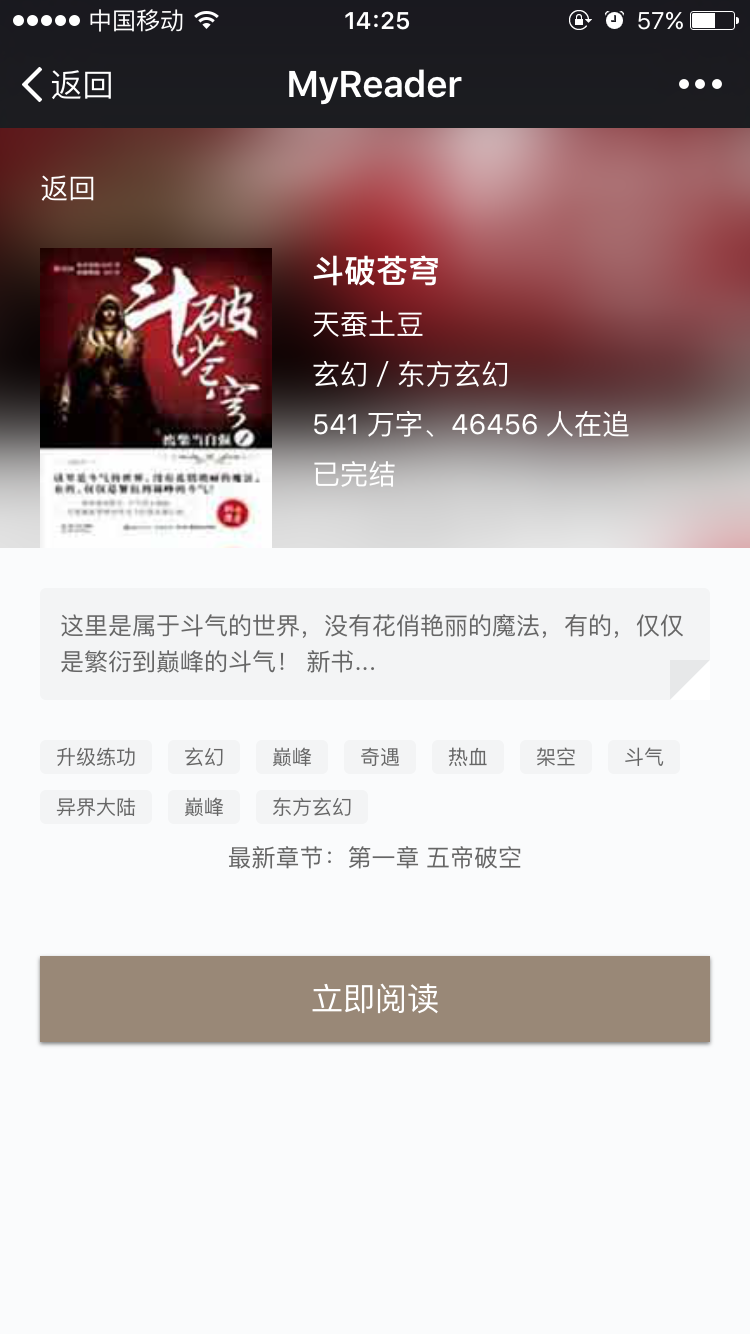
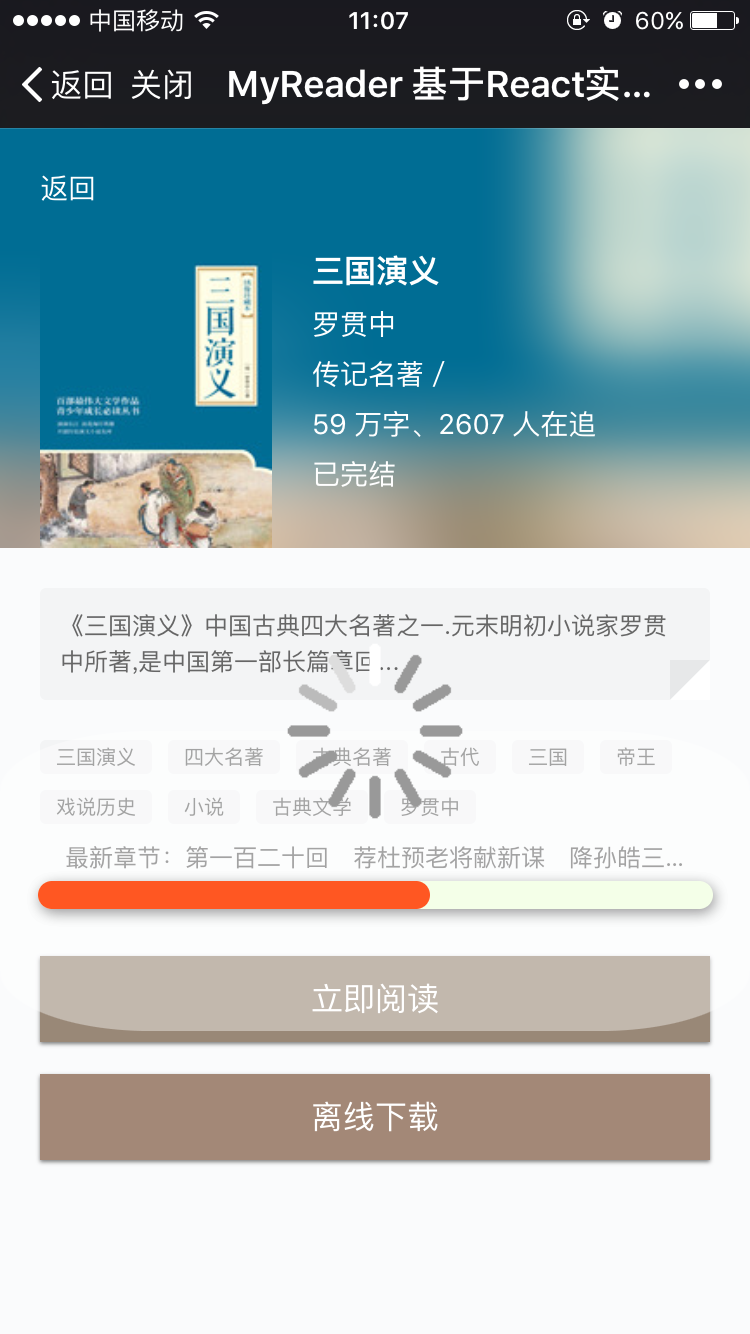
第二版，新增离线下载功能，修复已知bug

diff --git a/README.md b/README.md
@@ -7,6 +7,31 @@
 github：[myreader](https://github.com/liufulin90/myreader)
 
 -------
+## 目录索引
+> store的设计与实现
+- [阅读器](#阅读器)
+- [书架](#书架)
+> effects 的逻辑处理
+- [获取书源](#获取书源)
+- [章节列表 & 章节内容](#章节列表&章节内容)
+- [换源实现](#换源实现)
+- [切换章节](#切换章节)
+- [离线下载](#离线下载)
+- [本地存储 redux-persist](#本地存储redux-persist)
+> UI部分
+- [首页](#首页)
+- [阅读器](#阅读器)
+- [换肤](#换肤)
+- [删除实现](#删除实现)
+> 优化
+- [移动端优化](#移动端优化)
+- [CSS](#CSS)
+- [fetch-polyfill](#fetch-polyfill)
+- [fastclick](#fastclick)
+- [体积减小](#体积减小)
+> 最后
+- [后记](#后记)
+- [线上环境](#线上环境)
 
 ### 开始
 
@@ -21,7 +46,7 @@ github：[myreader](https://github.com/liufulin90/myreader)
 reader代表阅读器和当前书籍，这里我们跳过优质书源，原因大家都懂。
 ╮(￣▽￣)╭
 
-**阅读器**
+#### 阅读器
 
 - src/store/reducer/reader.js
 ```javascript
@@ -54,7 +79,7 @@ function reader(state = initState, action) {
 export default reader;
 ```
 
-**书架**
+#### 书架
 
 因为我们并不是要做只能阅读一本书的鸡肋，我们要的是能在多本书籍之间快速切换，不但能够保存阅读进度（当前书源和当前章节），并且可以在缓存中读取数据，过滤掉那些不必要的服务器请求。
 
@@ -109,7 +134,7 @@ export default store;
 
 需要注意的一点是，项目本质上是web应用，用户可能从url进入任意页面，所以要做好异常情况的处理，例如没有书籍详情等。
 
-**获取书源**
+#### 获取书源
 
 - src/store/effects/reader.js
 ```javascript
@@ -155,7 +180,8 @@ function* getSource({ query }) {
 }
 ```
 
-**章节列表 & 章节内容**
+#### 章节列表 & 章节内容
+
 获取章节列表和章节内容比较简单，只需稍稍做些异常情况的处理即可。
 
 - src/store/effects/reader.js
@@ -216,7 +242,7 @@ function* getChapter() {
 }
 ```
 
-**换源实现**
+#### 换源实现
 
 同是核心功能，这个必须有。换源其实非常简单，做一个智（sha）能（gua）换源吧（根据书源获取`具体章节`，如果获取不到就拿下一个书源再获取`其具体章节`，直到获取到正确的为止）。
 
@@ -249,7 +275,7 @@ function* getNextSource() {
 
 ![retry](https://raw.githubusercontent.com/liufulin90/myreader/master/screenshots/retry.jpg)
 
-**切换章节**
+#### 切换章节
 
 非常简单，稍微做下异常处理就好。
 
@@ -274,7 +300,7 @@ function* goToChapter({ payload }) {
   }
 }
 ```
-### 离线下载
+#### 离线下载
 
 考虑到节约流量问题，获取一个可用的书源后对每个章节去下载相应的章节内容，然后存储在本地(chaptersContent)。
 - src/store/effects/reader.js
@@ -366,7 +392,8 @@ function* downGetSource({ query }) {
 }
 ```
 
-### 本地存储 redux-persist
+#### 本地存储 redux-persist
+
 这里咱们使用了 `redux-persist` 来做本地存储，非常方便，redux先关数据自动存储和获取
 - src/store/effects/reader.js
 ```javascript
@@ -391,11 +418,11 @@ export default [
 ```
 以上基本上已经完整实现了阅读器的核心部分，至于搜索和详情页，限于篇幅不再赘述。
 
-### ui部分
+### UI部分
 
 本想使用material-ui，但它实在是太重了，而我希望这个项目是轻量且高效的，最后还是决定自行设计ui。
 
-**首页**
+#### 首页
 
 首页比较纠结，曾经放了很多自以为炫酷的高斯模糊和动画，但过多的效果会降低体验，最终还是选择了走了简洁的路子。
 
@@ -423,7 +450,7 @@ function mapStateToProps(state) {
 }
 ```
 
-**阅读器**
+#### 阅读器
 
 ![reader_all](https://raw.githubusercontent.com/liufulin90/myreader/master/screenshots/reader_all.png)
 
@@ -468,7 +495,7 @@ this.skip = () => {
  }
 ```
 
-**换肤**
+#### 换肤
 
 说起来很好实现，无非是先预设一套主题参数，需要哪个点那个。
 
@@ -543,7 +570,7 @@ this.setFontSize = (num) => {
 };
 ```
 
-**删除实现**
+#### 删除实现
 
 为了不再增加新的ui，决定使用长按删除。但是这个列表不仅需要支持长按和短按，还需要支持滚动，我又不想使用`hammer.js`这种重型库，只得手写了一个同时支持长按和短按的组件。
 
@@ -596,7 +623,7 @@ export default ({ children, onPress, onTap }) => {
 
 ### 优化
 
-**移动端优化**
+#### 移动端优化
 
 ```html
 <meta content="width=device-width, initial-scale=1.0, maximum-scale=1.0, user-scalable=0;" name="viewport" />
@@ -609,7 +636,7 @@ export default ({ children, onPress, onTap }) => {
 <link rel="apple-touch-icon" href="icon.png"/>
 ```
 
-**css**
+#### CSS
 
 ```css
 * {
@@ -630,7 +657,7 @@ input {
 }
 ```
 
-**fetch-polyfill**
+#### fetch-polyfill
 
 解决fetch浏览器不兼容问题
 - src/utils/request.js
@@ -638,7 +665,7 @@ input {
 import 'fetch-polyfill';
 ```
 
-**fastclick**
+#### fastclick
 
 如果 `viewport meta` 标签 中设置了 `width=device-width`， `Android` 上的 `Chrome 32+` 会禁用 300ms 延时。
 
@@ -650,7 +677,7 @@ FastClick.attach(document.body);
 你懂得，移除移动端300毫秒延迟，不过这会带来其他问题，比如长按事件异常，滚动事件异常什么的。因为滑动touchmove触发了touchend事件，需要先取消掉touchstart上挂载的动作。
 
 
-**体积减小**
+#### 体积减小
 
 项目初期打包后竟然有700k+，首次加载速度不忍直视。前面已经提到，放弃各种框架和动画之后，体积已经大幅减少。不过有react，react-router，redux，redux-saga这些依赖在，体积再小也小不到那里去。但好消息是我们可以使用preact替换react，从而节省约120kb左右。
 
@@ -672,13 +699,14 @@ resolve: {
 以及一系列优化以及gzip之后，项目index.js减小到了240kb，相比初期只有十分之一大小。
 
 
-**最后**
+### 最后
+#### 后记
 
 项目中所有数据来自追书神器，非常感谢！！
+喜欢的同学可以`star`哦，欢迎提出建议。
 本项目仅作用于在实战中学习前端技术，请勿他用。
 
-
-**线上环境**
+#### 线上环境
 - 这里使用node环境做本地server，启动： node server.js & 
 
 在线地址：[MyReader](http://myreader.linxins.com)
@@ -715,7 +743,7 @@ proxy: {
 ## License
 (The MIT License)
 
-Copyright (c) 2016 [linxins](http://www.linxins.com) <liufulin90@163.com>
+Copyright (c) 2017 [linxins](http://www.linxins.com) <liufulin90@163.com>
 
 
 
